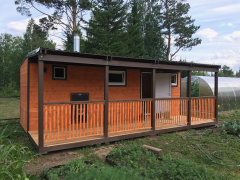
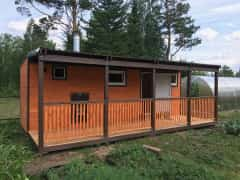
Deploying to gh-pages from  @ d673dcf8581f35ff675c607675399b517144bb47 🚀

diff --git a/index.html b/index.html
@@ -152,6 +152,7 @@
         <ul class="products_list">
           <li class="products__item" id-product="econom-4">
             <picture>
+              <source type="image/webp" srcset="./img/banya4E-prev@1x.webp 1x, ./img/banya4E-prev@2x.webp 2x">
               <img width="240" height="180" src="./img/banya4E-prev@1x.jpg" srcset="./img/banya4E-prev@2x.jpg 2x" alt="Фото собранной бани">
             </picture>
 
@@ -170,6 +171,7 @@
 
           <li class="products__item" id-product="econom-5">
             <picture>
+              <source type="image/webp" srcset="./img/banya5E-prev@1x.webp 1x, ./img/banya5E-prev@2x.webp 2x">
               <img width="240" height="180" src="./img/banya5E-prev@1x.jpg" srcset="./img/banya5E-prev@2x.jpg 2x" alt="Фото собранной бани">
             </picture>
 
@@ -187,6 +189,7 @@
 
           <li class="products__item" id-product="econom-6">
             <picture>
+              <source type="image/webp" srcset="./img/banya6E-prev@1x.webp 1x, ./img/banya6E-prev@2x.webp 2x">
               <img width="240" height="180" src="./img/banya6E-prev@1x.jpg" srcset="./img/banya6E-prev@2x.jpg 2x" alt="Фото собранной бани">
             </picture>
 
@@ -205,6 +208,7 @@
 
           <li class="products__item" id-product="standart-4">
             <picture>
+              <source type="image/webp" srcset="./img/banya4-prev@1x.webp 1x, ./img/banya4-prev@2x.webp 2x">
               <img width="240" height="180" src="./img/banya4-prev@1x.jpg" srcset="./img/banya4-prev@2x.jpg 2x" alt="Фото собранной бани">
             </picture>
 
@@ -222,6 +226,7 @@
 
           <li class="products__item" id-product="standart-5">
             <picture>
+              <source type="image/webp" srcset="./img/banya5-prev@1x.webp 1x, ./img/banya5-prev@2x.webp 2x">
               <img width="240" height="180" src="./img/banya5-prev@1x.jpg" srcset="./img/banya5-prev@2x.jpg 2x" alt="Фото собранной бани">
             </picture>
 
@@ -241,6 +246,7 @@
           <li class="products__item" id-product="standart-6">
 
             <picture>
+              <source type="image/webp" srcset="./img/products-item-1@1x.webp 1x, ./img/products-item-1@2x.webp 2x">
               <img width="240" height="180" src="./img/products-item-1@1x.jpg" srcset="./img/products-item-1@2x.jpg 2x" alt="Фото собранной бани">
             </picture>
 
